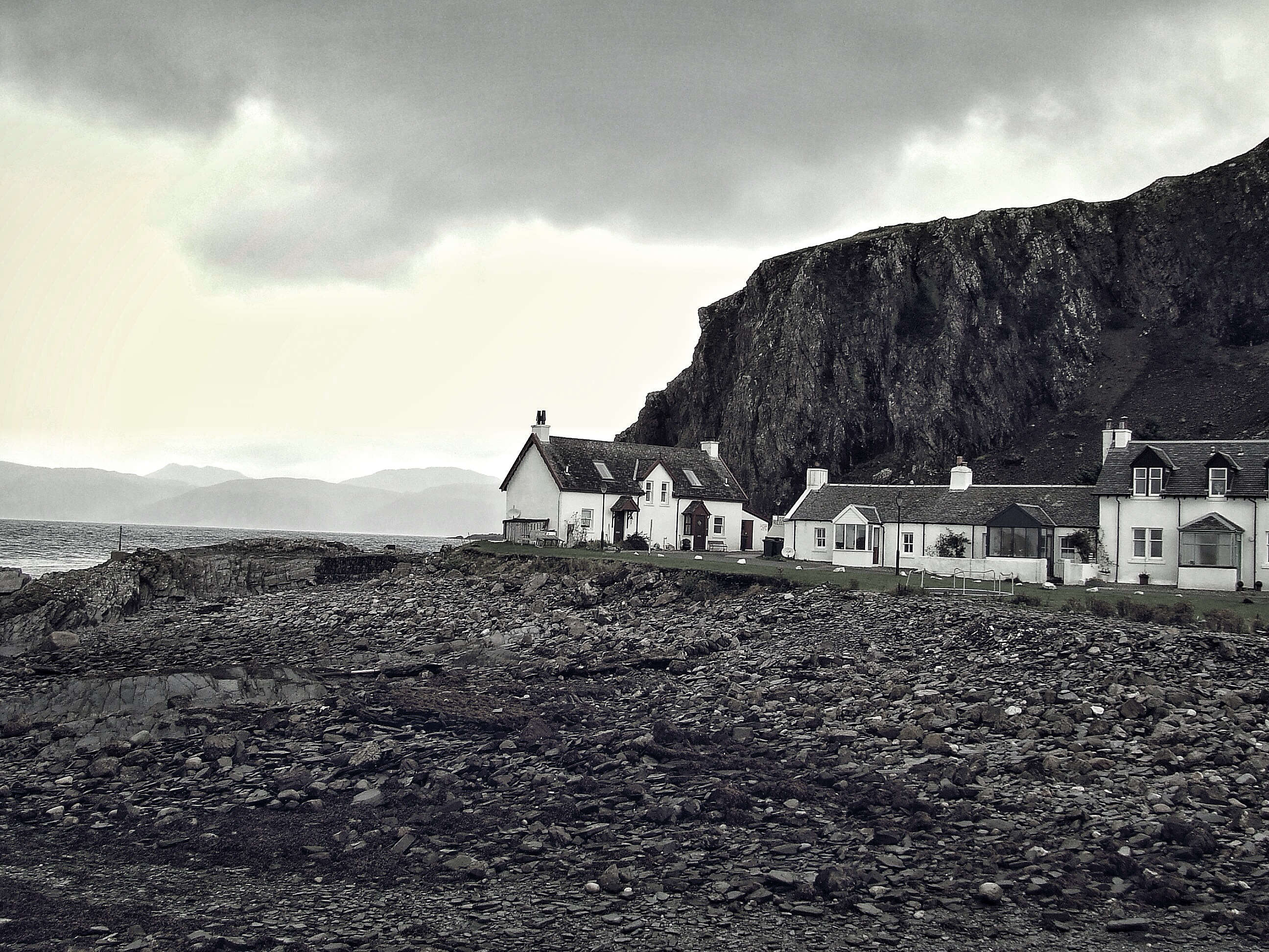
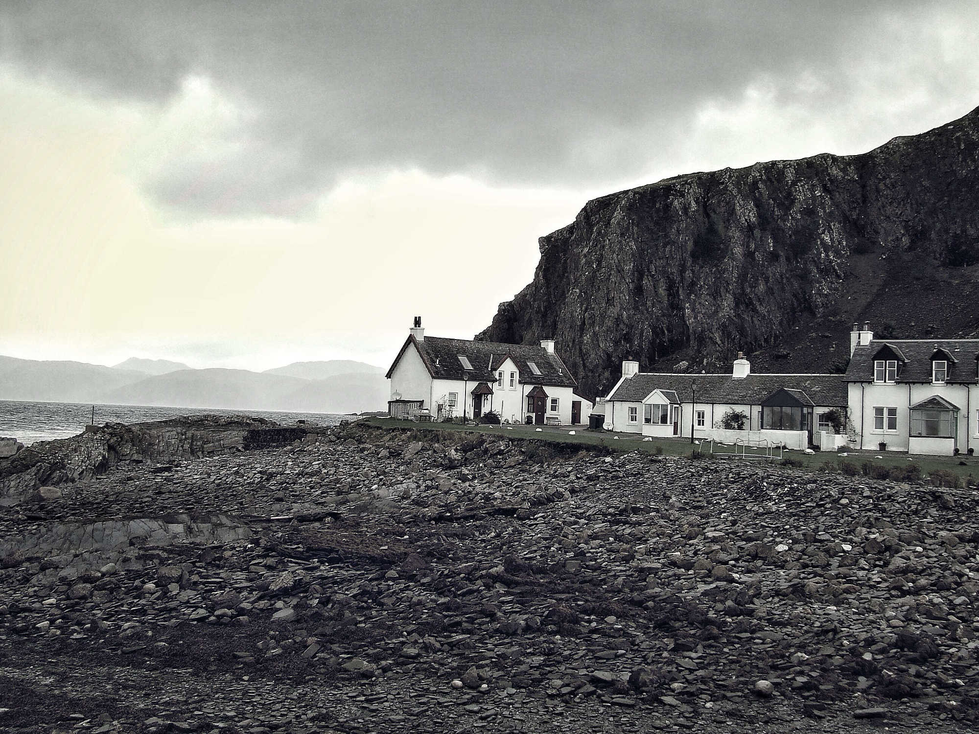
mobile version

diff --git a/css/singletrack.css b/css/singletrack.css
@@ -543,4 +543,54 @@ header nav li a:hover
 }
 
 
+@media only screen and (max-width: 480px) {
+	
+	.hero-wrapper.orange {
+		background-image: url("/singletrack/media/beach-houses-mobile.jpg");
+	}
+	
+	.hero-wrapper.black {
+		background-image: url("/singletrack/media/wood-panel-house-mobile.jpg");
+	}
+	
+	.cta-wrapper.learn:before {
+		background-image: url("/singletrack/media/school-mobile.jpg");
+	}
+	
+	.cta-wrapper.choose:before {
+		background-image: url("/singletrack/media/road-mobile.jpg");
+	}
+	
+	.cta-wrapper.call:before {
+		background-image: url("/singletrack/media/phone-booth-mobile.jpg");
+	}
+	
+}
+
+
+@media only screen and (min-width: 481px) and (max-width: 1140px) {
+	
+	.hero-wrapper.orange {
+		background-image: url("/singletrack/media/beach-houses-mobile@2x.jpg");
+	}
+	
+	.hero-wrapper.black {
+		background-image: url("/singletrack/media/wood-panel-house-mobile@2x.jpg");
+	}
+	
+	.cta-wrapper.learn:before {
+		background-image: url("/singletrack/media/school-mobile@2x.jpg");
+	}
+	
+	.cta-wrapper.choose:before {
+		background-image: url("/singletrack/media/road-mobile@2x.jpg");
+	}
+	
+	.cta-wrapper.call:before {
+		background-image: url("/singletrack/media/phone-booth-mobile@2x.jpg");
+	}
+	
+}
+
+
 
